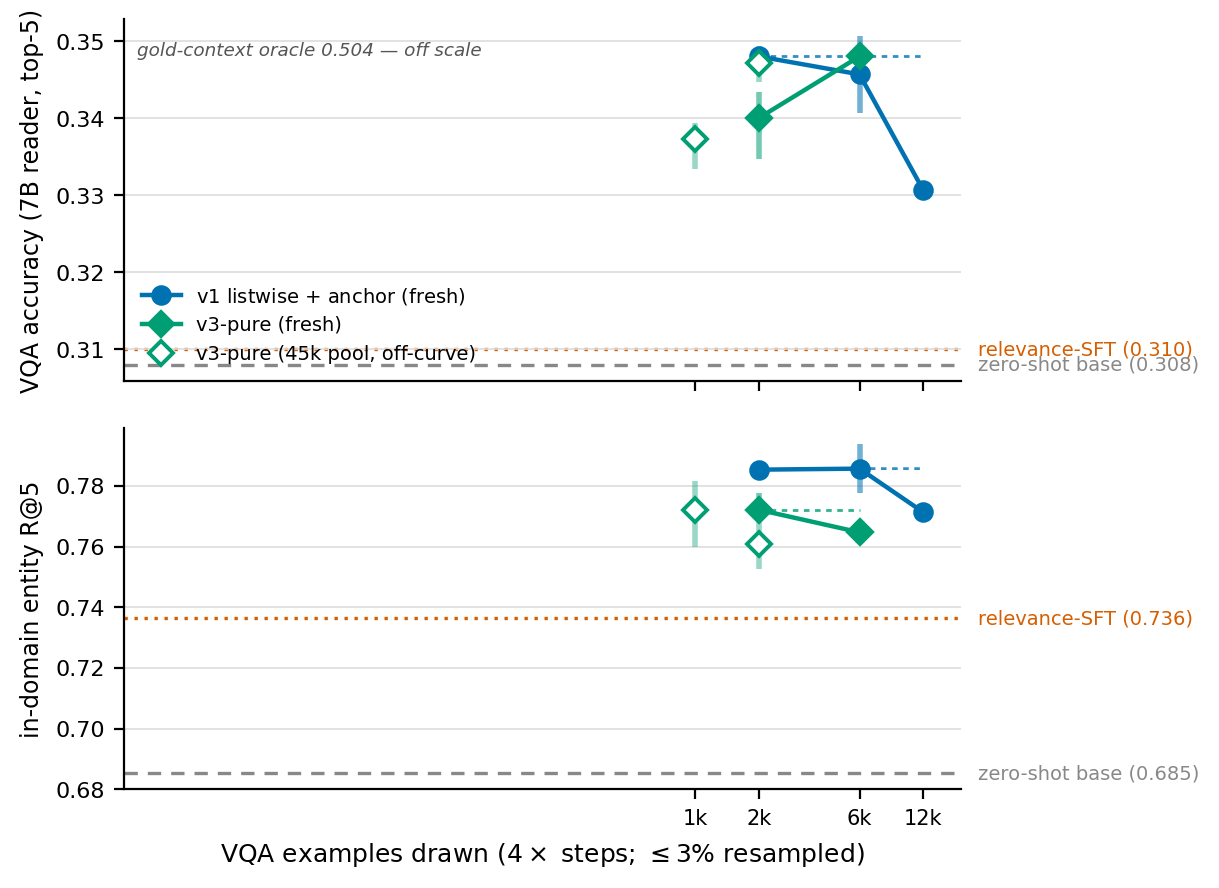
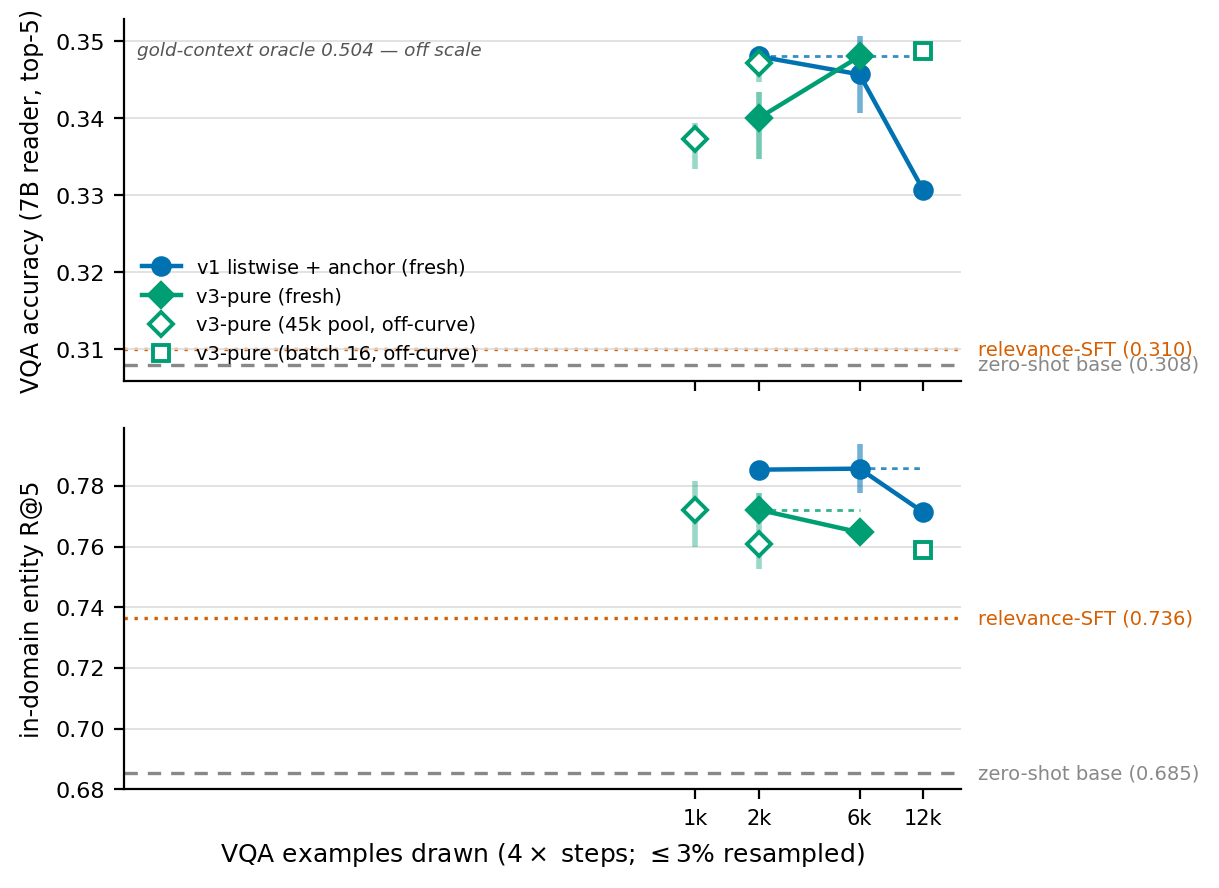
mmrag: contraction is graded in learning rate, not categorical; batch-16 cell kept off the curve
DOSE-RESPONSE. The intermediate rate turns the LR result from two endpoints into
a graded surface: clip-L distinct-top5 2882 -> 1795 -> 214 across 1e-5/3e-5/1e-4
(R@5 .041/.017/.004), bgevl_l 2966 -> 2364 -> 197 (R@5 .212/.148/.007). So
contraction is not a categorical failure of certain bases but a continuous
consequence of optimiser overshoot, arriving at the same rate on both and simply
catching BGE-VL on its way down from a real gain. Stronger than the categorical
version it replaces.

The learning window for the one base that learns has closed by 3e-5; whether it
extends below 1e-5 is being measured, so 1e-5 is written as a boundary cell
rather than an optimum and the +5.50 is flagged as possibly an underestimate.

BATCH-16 CELL NOT PUT ON THE CURVE. v3-b16-s750 draws 12k at batch 16 — but that
is 750 updates where a batch-4 cell at the same draw count takes 3000, so draws
and update count are confounded in it. Config-equivalence already rejected it
(batch_size is not a free key); rather than relax that, I added an explicit
off-curve path so it is drawn as a hollow marker and described as a control on
whether draws or updates carry the effect. It would otherwise have been the only
v3 12k point and read as 'the curve continues rising'.

Bracket coverage now .026/.031/.0373/.0537 with cells at every point and the
tight bracket fully fresh — but still gated on qwen25_3b AND now needing
lr-conditioning per the casualty above. SFT curve flat at 31.33 for ck900 and
[…]

Changed region(s): [[0.1247, 0.2736, 0.4053, 0.4257], [0.7482, 0.0304, 0.7793, 0.0912], [0.7482, 0.6081, 0.7793, 0.6385]]

diff --git a/mmrag/sec_mm_rag.tex b/mmrag/sec_mm_rag.tex
@@ -1162,7 +1162,7 @@ arms are being re-read at their best checkpoint rather than their trained endpoi
 that is settled and it confirmed the headline: every seed scores lower at half budget than at
 $500$ steps, so the endpoint is the maximum. For SFT it is still running, and the partial curve
 is already informative --- $29.53$ at $150$ steps, $32.07$ at $300$, $32.27$ at $450$, then
-$31.07$ at $600$, $33.00$ at $750$ and $31.33$ at $900$ --- past the released checkpoint's $31.00$ by step $300$,
+$31.07$ at $600$, $33.00$ at $750$, then flat at $31.33$ for $900$ and $1{,}050$ --- past the released checkpoint's $31.00$ by step $300$,
 and \emph{not monotone}. That non-monotonicity is itself an argument for the audit: a curve that
 dips and recovers cannot be summarised by any single checkpoint, least of all the last one, which
 is what both arms were originally reported at. So the released SFT checkpoint
@@ -1243,6 +1243,20 @@ most of the bootstrap along with it.
 %   7B SECOND SEED: gme7b-v3pure-s1 acc .3573 / entR@5 .8030 / distinct 2895. 2-seed mean .3517,
 %     spread .0113. McNemar vs gme7b-sft: s0 +.0140 p=.089 n.s.; s1 +.0253 p=.0014 SIG (87/49).
 %     vs 2B base: +.0493 p=5.9e-08. RL 2B->7B is +.0046, INSIDE the seed spread => inconclusive.
+%   LR DOSE-RESPONSE (fresh, 1 seed each; distinct-top5 / entR@5), contraction is GRADED:
+%     clip-L    1e-5 2882/.0410 | 3e-5 1795/.0170 | 1e-4  214/.0043
+%     bgevl_l   1e-5 2966/.2123 | 3e-5 2364/.1477 | 1e-4  197/.0070
+%     bgevl_l LEARNS at 1e-5 (+5.50 over its zs .1573), is mildly damaged at 3e-5, contracts at
+%     1e-4. Learning window closed by 3e-5; bgevl_l at 3e-6 QUEUED because 1e-5 is a boundary
+%     cell, not an established optimum -- keep "window" language qualified until it lands.
+%   BRACKET COVERAGE now .0260 (clipb32) / .0310 (clipb16) / .0373 (qwen25_3b) / .0537 (clip-L),
+%     v3 cells run or queued at every point. Tight bracket (.026,.054) is fully fresh. STILL
+%     GATED on qwen25_3b per print-once, AND now needs lr-conditioning per the casualty above.
+%   CONSUMPTION, batch-16 cell: v3-b16-s750 acc .3487 / entR@5 .7590 / distinct 2891, batch 16 x
+%     750 steps = 12,000 draws. NOT a curve point: it takes 750 updates where a batch-4 cell at
+%     the same draw count takes 3000, so draws and update count are confounded in it. Drawn as an
+%     explicit off-curve marker (CONSUMPTION_EXPLICIT in plot_scaling.py) and described as a
+%     control on whether draws or updates carry the effect.
 %   sft-curve ck900 = .3133 (R@5 .7313); max still ck750 .3300; ck1050/ck1200 pending.
 %   LEARNING-RATE CONTROLS (launched 2026-08-13; registered in RL_REDESIGN.md; jobs
 %     b530a228a3233a4c / b319c0184ad4d190 + 4 local cells): clip-v3pure at 1e-5 and 3e-5,
@@ -1372,8 +1386,18 @@ That result needs one clause kept firmly attached to it. \textsc{BGE-VL-large} a
 $1\mathrm{e}{-}5$ answers at $16.93$, still $2.33$ points \emph{below} the image-alone floor: its
 retrieval improved substantially and remains net-harmful to the reader. ``Trains'' here means the
 retrieval metric moves in the right direction, not that the system became a useful RAG pipeline,
-and it is one seed at $500$ steps with longer runs unregistered. The remaining ladder cells refine
-this, and one casualty is already clear --- phenotype is a function of starting signal
+and it is one seed at $500$ steps with longer runs unregistered. The intermediate rate turns this from a pair of endpoints into a
+dose-response. Across $1\mathrm{e}{-}5$, $3\mathrm{e}{-}5$ and $1\mathrm{e}{-}4$,
+\textsc{CLIP-L}'s distinct top-$5$ count falls $2{,}882 \to 1{,}795 \to 214$ (entity R@5
+$4.10 \to 1.70 \to 0.43$) and \textsc{BGE-VL-large}'s falls $2{,}966 \to 2{,}364 \to 197$
+(R@5 $21.23 \to 14.77 \to 0.70$). Contraction is therefore not a categorical failure of certain
+bases but a \emph{graded} consequence of optimiser overshoot, arriving at the same rate on both
+and simply catching \textsc{BGE-VL} on its way down from a genuine gain. The one base that learns
+does so in a window that has already closed by $3\mathrm{e}{-}5$; whether it extends below
+$1\mathrm{e}{-}5$ is being measured, so $1\mathrm{e}{-}5$ is a boundary cell rather than an
+established optimum and the $+5.50$ may understate what this base can do.
+
+The casualty of all this is worth stating plainly: phenotype is a function of starting signal
 \emph{and} learning rate, not of starting signal alone, so any boundary drawn on zero-shot
 competence has to be conditioned on the optimiser setting that produced it.
 

diff --git a/mmrag/plot_scaling.py b/mmrag/plot_scaling.py
@@ -77,6 +77,11 @@ CONSUMPTION_AVAIL = {"v1": {200000}, "v3": {200000}}
 # different distribution from its own 6k/12k continuations on pool_train_big (200 q/entity).
 # Once v3-rows200k lands, the matched big-pool cell joins the curve and this marker becomes the
 # composition comparison rather than a substitute for it.
+# Explicit off-curve runs on the consumption axis: same draw count, DIFFERENT experiment.
+# v3-b16-s750 draws 12k at batch 16, i.e. 750 updates against the 3000 a batch-4 cell would take
+# for the same draws -- so it cannot join a curve whose other points hold batch fixed.
+CONSUMPTION_EXPLICIT = [("v3-b16-s750", "v3-pure (batch 16, off-curve)", "#009E73", "s")]
+
 CONSUMPTION_OFFCURVE = [("v3", "v3-pure", {45248}, "v3-pure (45k pool, off-curve)", "#009E73", "D")]
 
 # Recorded-wave points come from results_summary.json; same config-equivalence idea, but the
@@ -382,6 +387,14 @@ def draw_consumption(D, out_path, min_points=3):
             offcurve.append((label, colour, marker, pts))
             print(f"  consumption {recipe} OFF-CURVE ({label}): " + ", ".join(
                 f"{x}:{[p[0] for p in pts[x]]}" for x in sorted(pts)))
+    for run, label, colour, marker in CONSUMPTION_EXPLICIT:
+        a = args_of(D, run)
+        n, _ = consumed_of(D, run, a)
+        acc, r5 = acc_of(D, run), r5_of(D, run)
+        if n is not None and acc is not None:
+            offcurve.append((label, colour, marker, {n: [(run, acc, r5)]}))
+            print(f"  consumption EXPLICIT off-curve: {run} at {n} draws "
+                  f"(batch {a['batch_size']}, {a['max_steps']} updates)")
     if not any(len(pts) >= min_points for *_, pts in series):
         print(f"  consumption figure NOT written — no series has {min_points}+ points yet.")
         return False
